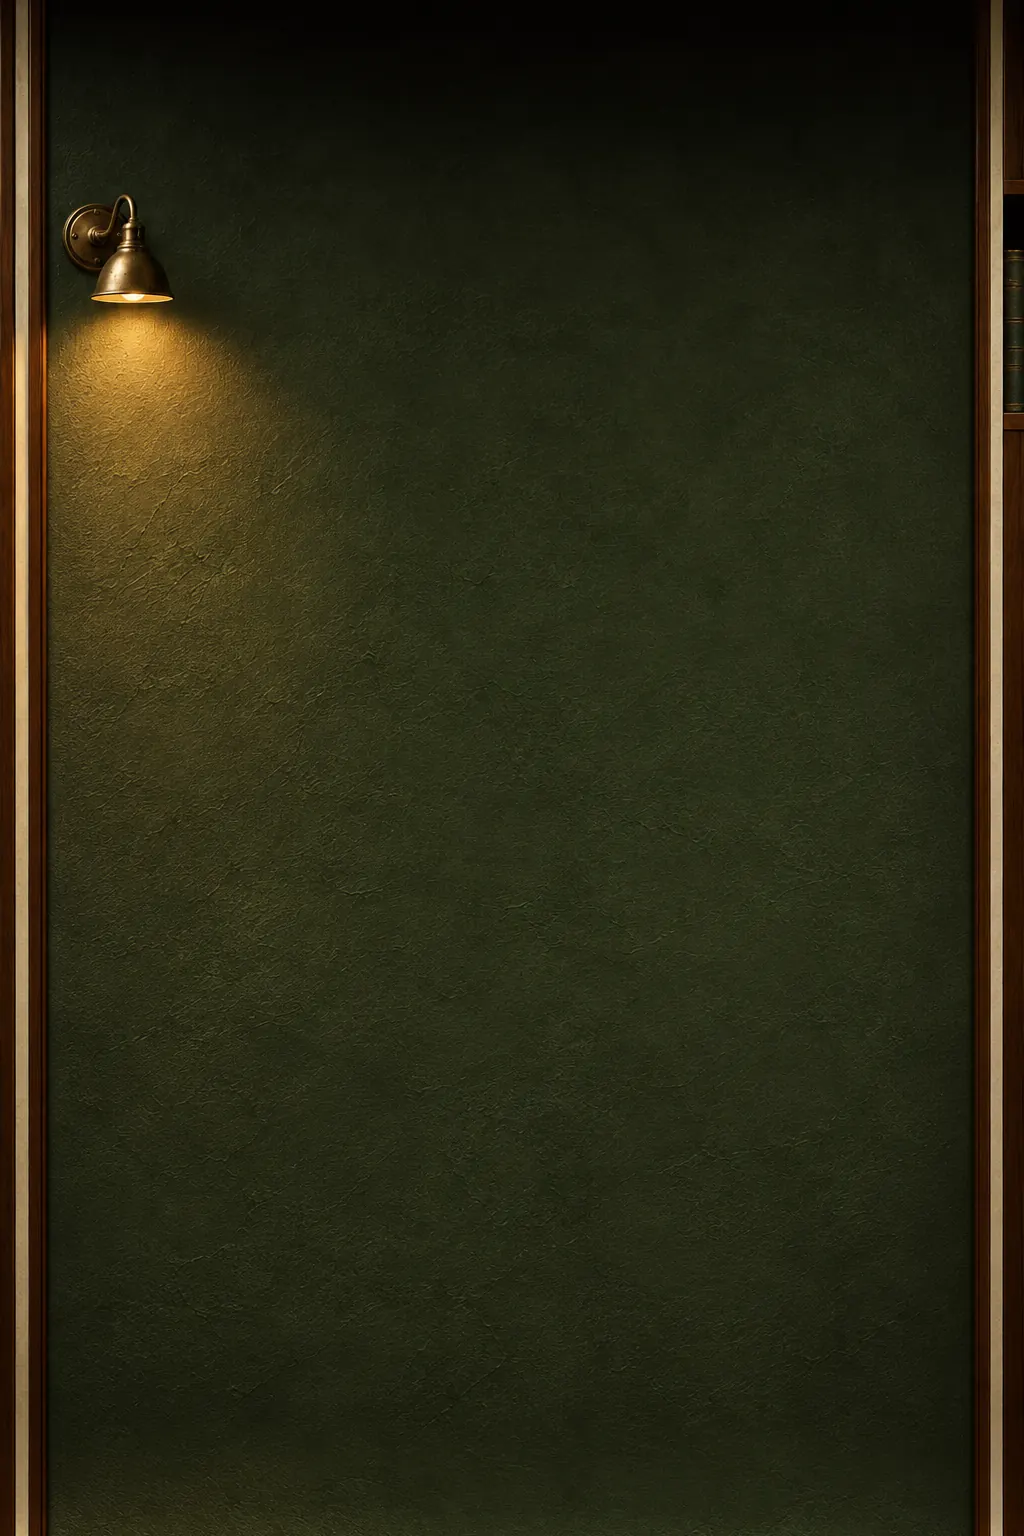
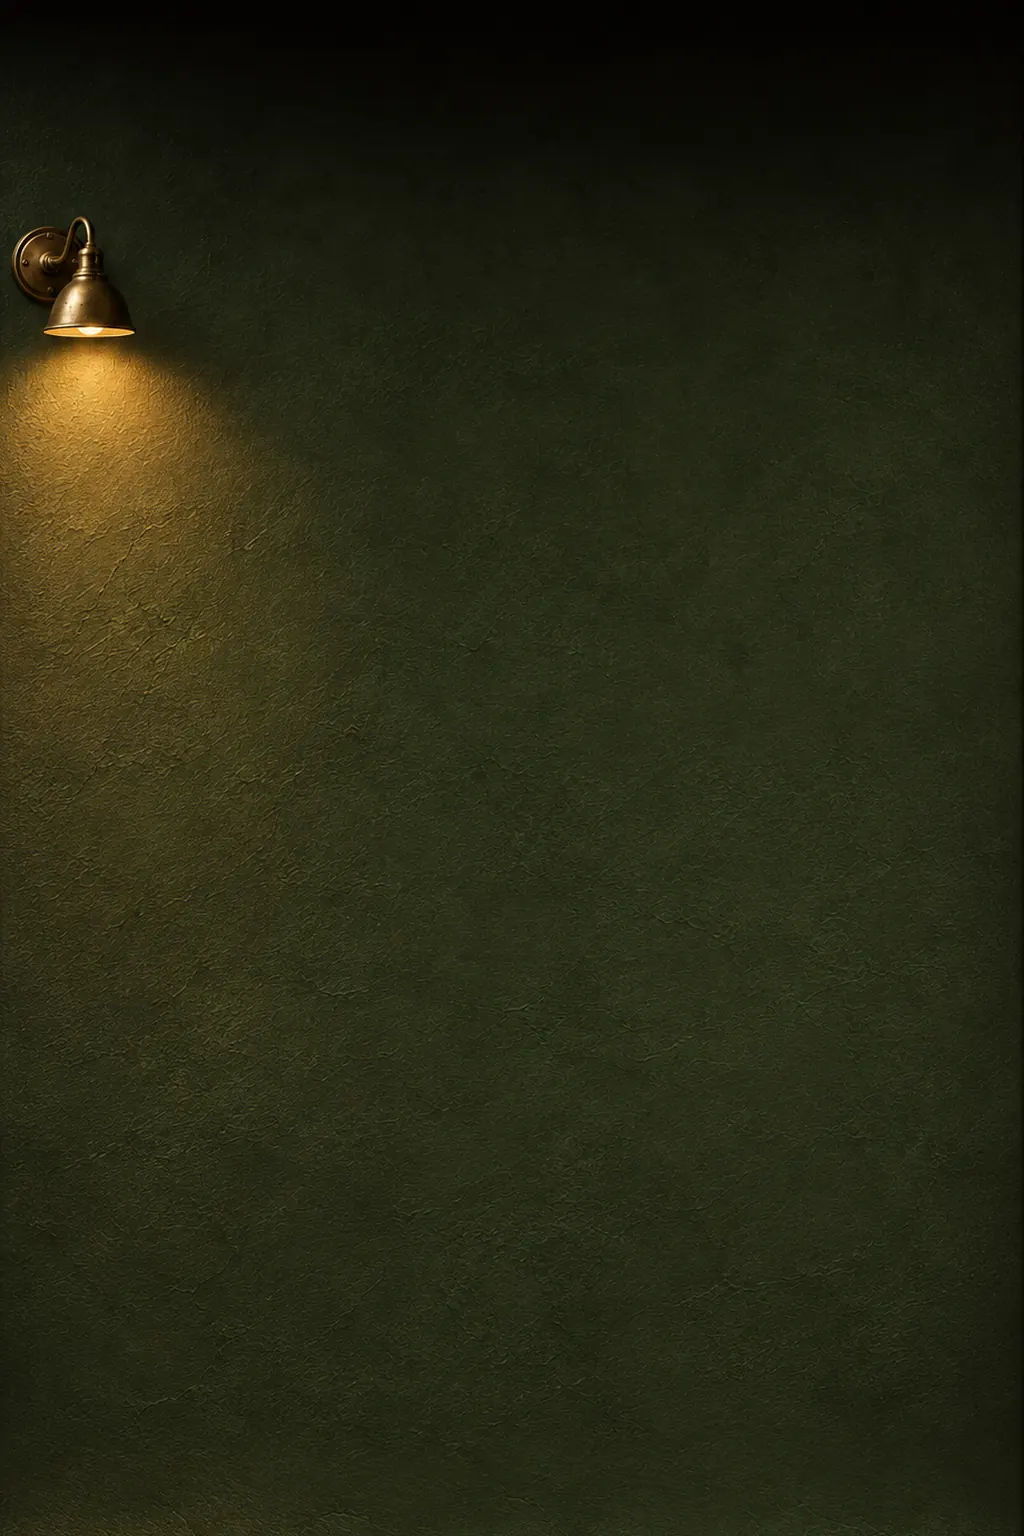
feat(site): the guide's wall is its green alone; the navy wall's lamp a piece of its own (owner, 2026-10-18)
The guide's picture loses its wood and brass trim; the navy wall ships as its band and the lamp
cut from it, fading to clear; the archive's picture is set aside.

Changed region(s): [[0.0, 0.0, 0.3125, 1.0], [0.9375, 0.0, 1.0, 1.0], [0.1875, 0.6562, 0.25, 0.6875]]

diff --git a/frontend/scripts/fit_walls.py b/frontend/scripts/fit_walls.py
@@ -1,8 +1,9 @@
 """
 One-off: the station's walls behind the site's pages (owner, 2026-10-18), from the owner's
 masters in claude_artifacts/design/rasters/landing/: the landing's navy wall (behind the story,
-the features and the replay), the guide's green, the ticket office's brick and the archive's
-filing room. Each comes wide (a screen wider than tall) and tall (a phone), each shipped as two
+the features and the replay), the guide's green and the ticket office's brick. (The archive's
+filing room was tried and set aside: the owner preferred the drawn tile room.) Each comes
+wide (a screen wider than tall) and tall (a phone), each shipped as two
 pieces: the picture itself, its lamp and all, for the top of the page, and a band of its lower
 wall that repeats down as far as the page runs, so the wall never ends before the content does.
 
@@ -26,11 +27,20 @@ OUT = ROOT / "src/assets/site/walls"
 # stack if repeated: its picture fades out instead (its page is short).
 WALLS = {
     "navy": {"wide": ("desktop_bluewall.png", (744, 1020)), "tall": ("mobile_bluewall.png", (130, 860))},
-    "guide": {"wide": ("guide/desktop.png", (744, 1020)), "tall": ("guide/mobile.png", (768, 1528))},
+    "guide": {"wide": ("guide/desktop.png", (744, 1020)), "tall": ("guide/mobile.png", (700, 1370))},
     "office": {"wide": ("play/desktop.png", None), "tall": ("play/mobile.png", None)},
-    "archive": {"wide": ("replay/desktop.png", (512, 1016)), "tall": ("replay/mobile.png", (768, 1528))},
 }
 TAPER = 120  # the picture's last rows, blended into the band: its edge is darker than its middle
+
+# the guide's green alone (owner, 2026-10-18): its wood and brass trim cut off the sides, the
+# height cut to keep the picture's shape, then scaled back to its size (x0, x1 of the master)
+CROP = {("guide", "wide"): (64, 1460), ("guide", "tall"): (52, 972)}
+
+# the navy wall's lamp as its own piece, hung by the features' heading (owner, 2026-10-18): the
+# rows round it (y0, y1), fading to clear at the top and the bottom over FADE rows, so the band
+# behind shows through; the wall itself is the band alone
+LAMP = {"wide": (230, 630), "tall": (760, 1130)}
+FADE = 110
 
 
 def best_band(a: np.ndarray, lo: int, hi: int, min_h: int) -> tuple[int, int, float]:
@@ -59,9 +69,36 @@ def save(a: np.ndarray, path: Path) -> int:
     return path.stat().st_size // 1024
 
 
+def crop(im: Image.Image, x0: int, x1: int) -> Image.Image:
+    """Columns x0..x1, the rows cut from the foot to keep the shape, scaled back to its size."""
+    w, h = im.size
+    keep = round((x1 - x0) * h / w)
+    return im.crop((x0, 0, x1, keep)).resize((w, h), Image.LANCZOS)
+
+
+def lamp(a: np.ndarray, shape: str) -> None:
+    y0, y1 = LAMP[shape]
+    piece = a[y0:y1]
+    alpha = np.full(len(piece), 255.0)
+    ramp = np.linspace(0, 255, FADE)
+    alpha[:FADE] = ramp
+    alpha[-FADE:] = ramp[::-1]
+    rgba = np.dstack([piece, np.broadcast_to(alpha[:, None], piece.shape[:2])])
+    path = OUT / f"navy-{shape}-lamp.webp"
+    Image.fromarray(np.clip(rgba, 0, 255).astype(np.uint8), "RGBA").save(
+        path, "WEBP", quality=80, method=6
+    )
+    print(f"navy-{shape}-lamp: rows {y0}-{y1}, {path.stat().st_size // 1024} KB")
+
+
 def fit(name: str, shape: str, master: str, rows: tuple[int, int] | None) -> None:
-    a = np.asarray(Image.open(MASTERS / master).convert("RGB")).astype(np.float32)
+    im = Image.open(MASTERS / master).convert("RGB")
+    if (name, shape) in CROP:
+        im = crop(im, *CROP[(name, shape)])
+    a = np.asarray(im).astype(np.float32)
     h, w = a.shape[:2]
+    if name == "navy":
+        lamp(a, shape)
     OUT.mkdir(parents=True, exist_ok=True)
     if rows is None:
         size = save(a, OUT / f"{name}-{shape}.webp")
@@ -77,7 +114,8 @@ def fit(name: str, shape: str, master: str, rows: tuple[int, int] | None) -> Non
     for r in range(TAPER):
         t = (r + 1) / TAPER
         top[h - TAPER + r] = (1 - t) * a[h - TAPER + r] + t * band[len(band) - TAPER + r]
-    size = save(top, OUT / f"{name}-{shape}.webp")
+    # the navy wall is its band alone, the lamp hung over it as its own piece
+    size = save(top, OUT / f"{name}-{shape}.webp") if name != "navy" else 0
     bsize = save(band, OUT / f"{name}-{shape}-band.webp")
     print(
         f"{name}-{shape}: {w}x{h}, {size} KB; band rows {y0}-{y1} ({y1 - y0} px,"
